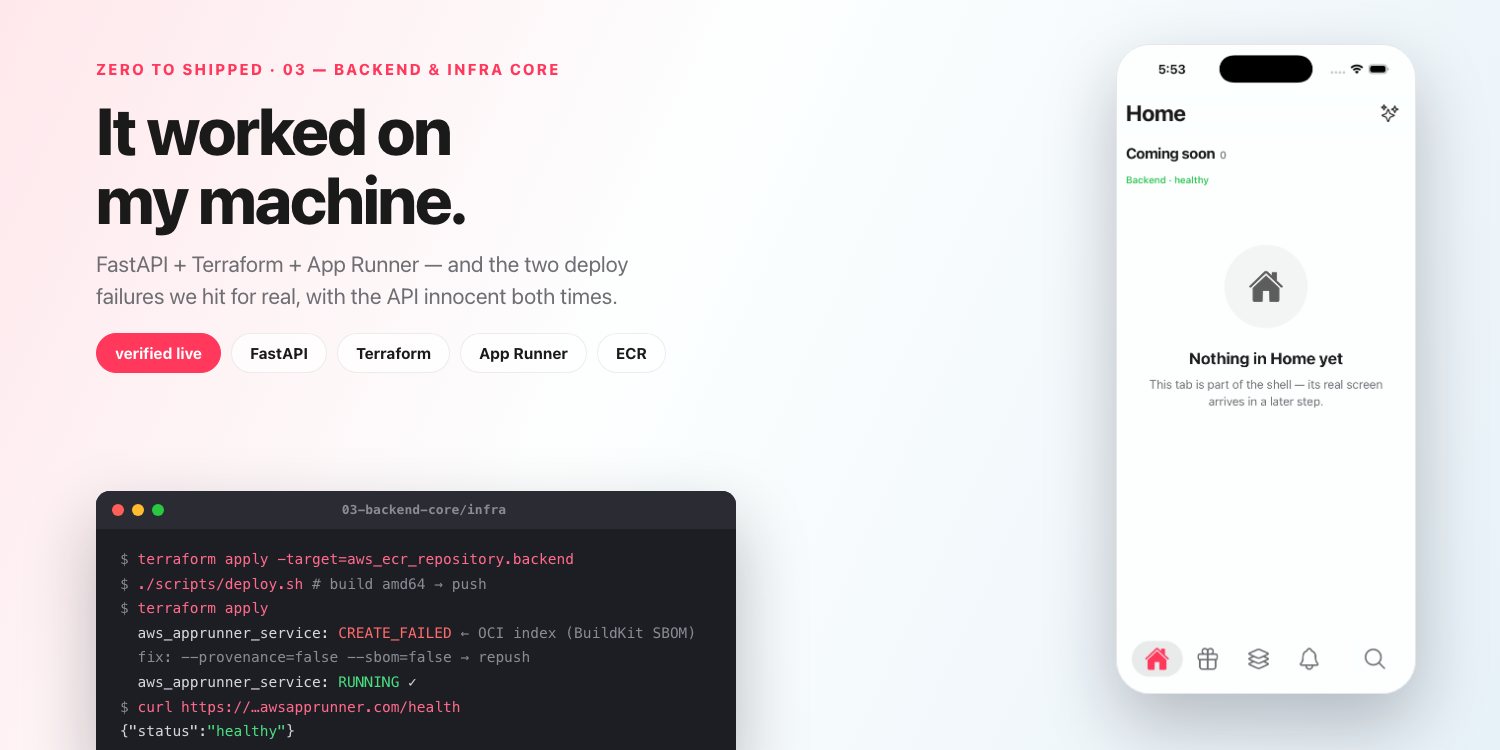
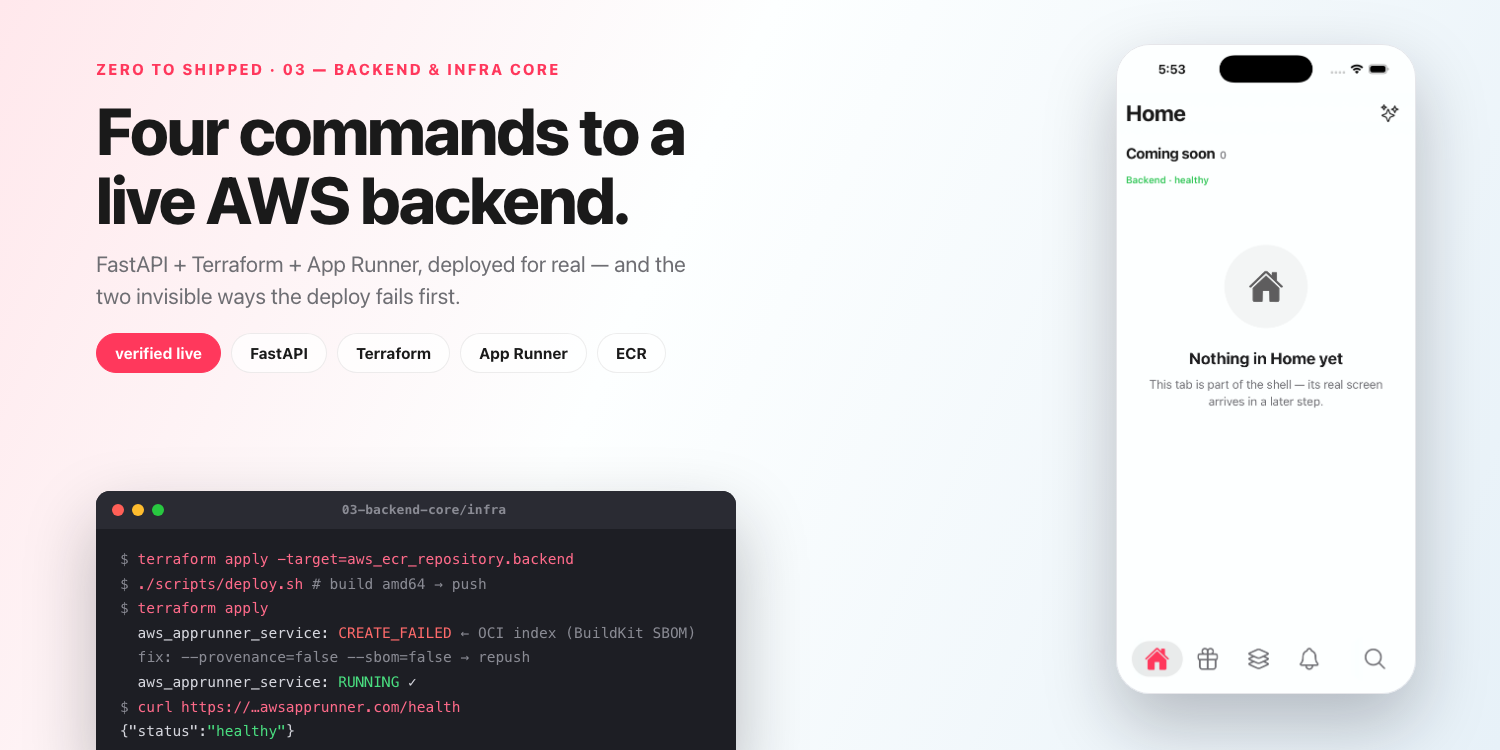
Post 03: value-first title (Four Commands to a Live AWS Backend); opens on the war story
Title pattern now matches the series' strongest (quantified deliverable,
like 'One Script to Set Up Everything'); the CREATE_FAILED narrative moves
from section four to the opening hook.

Changed region(s): [[0.0613, 0.1227, 0.46, 0.3067], [0.0613, 0.3373, 0.46, 0.4293]]

diff --git a/medium/03-backend-core.html b/medium/03-backend-core.html
@@ -3,12 +3,13 @@
 <style>body{max-width:740px;margin:40px auto;font-family:Georgia,serif;font-size:18px;line-height:1.6;color:#242424;padding:0 20px}
 img{max-width:100%}pre{background:#f5f5f5;padding:14px;overflow-x:auto;font-size:14px}code{background:#f5f5f5;padding:1px 4px;font-size:15px}</style>
 </head><body>
-<h1>It Worked on My Machine</h1>
-<p><em>Zero to Shipped · 03 — a FastAPI skeleton, real AWS infrastructure as code, and the two ways a Docker image passes every local test and still dies on deploy. (The API is never the problem.)</em></p>
+<h1>Four Commands to a Live AWS Backend</h1>
+<p><em>Zero to Shipped · 03 — FastAPI + Terraform + App Runner, deployed for real — and the two invisible ways the deploy fails first.</em></p>
 <hr>
-<p><img src="https://raw.githubusercontent.com/srivardhanjalan/kivan-tutorial/main/mocks/mocks-hero-03.png?v=a6b5abf" alt="Step 03 — the staged rollout and the app talking to AWS"></p>
-<p>This is step 03 of <strong>Zero to Shipped</strong>, a series where we build a real social product one deployable step at a time. New here? <strong><a href="https://medium.com/@srivardhanjalan/zero-to-shipped-2c13ce7e20e9">Start with the introduction</a></strong>. The code is the <code>03-backend-core/</code> folder, and <a href="https://github.com/srivardhanjalan/kivan-tutorial/pull/12/files">PR #12</a> shows every line this step adds.</p>
-<p>Today the app leaves the simulator: by the end, every tab of step 02&#39;s shell shows a live <strong>Backend · healthy</strong> line — first from a local FastAPI process, then from your own AWS infrastructure. And along the way we&#39;ll earn this post&#39;s title twice: deployments that fail on AWS with empty logs while the exact same code runs perfectly on the laptop — both times with the API itself completely innocent.</p>
+<p><img src="https://raw.githubusercontent.com/srivardhanjalan/kivan-tutorial/main/mocks/mocks-hero-03.png?v=d3dfd82" alt="Step 03 — the staged rollout and the app talking to AWS"></p>
+<p>While verifying this exact step, my deploy died like this: <code>terraform apply</code> waited three minutes on App Runner, returned <code>CREATE_FAILED</code>, and the service log group was <strong>empty</strong> — the container never produced a single line. The same image ran perfectly on my laptop. The API code was completely innocent. It took inspecting the pushed manifest to find the culprit, and it wasn&#39;t the one the internet warns you about.</p>
+<p>That story — both versions of it — is the second half of this post. The first half is the payoff it interrupts: a FastAPI backend running on your own AWS, deployed with four commands, every resource tagged and grouped, torn down to zero with one.</p>
+<p>*(This is step 03 of <strong>Zero to Shipped</strong>, where we build a real social product one deployable step at a time. New here? <strong><a href="https://medium.com/@srivardhanjalan/zero-to-shipped-2c13ce7e20e9">Start with the introduction</a></strong>. The code is the <code>03-backend-core/</code> folder; <a href="https://github.com/srivardhanjalan/kivan-tutorial/pull/12/files">PR #12</a> shows every line this step adds.)*</p>
 <h2>The backend earns its dependencies</h2>
 <p>The FastAPI skeleton follows the same rule the frontend&#39;s design tokens do: nothing joins before its first caller.</p>
 <pre><code>backend/
@@ -40,7 +41,7 @@ img{max-width:100%}pre{background:#f5f5f5;padding:14px;overflow-x:auto;font-size
 terraform apply                                       # 3. the service (~5 min)
 ./scripts/deploy.sh                                   # 4. instant re-run: tags the log groups
 </code></pre>
-<p>Here&#39;s what this post is really about. <strong><code>CREATE_FAILED</code>, with empty logs</strong> — the service dies before the first line of application output. There are two completely different causes with this identical symptom:</p>
+<p>And now the story from the top of the post. <strong><code>CREATE_FAILED</code>, with empty logs</strong> — the service dies before the first line of application output. Two completely different causes share this identical symptom:</p>
 <ol>
 <li><strong>The wrong build path on Apple Silicon.</strong> QEMU emulation and docker-container builders produce amd64 images that pass every local test and fail only on AWS. The fix is the Rosetta-backed Colima context that step 01&#39;s script configured (<code>docker context show</code> → <code>colima-rosetta</code>).</li>
 <li><strong>BuildKit&#39;s default attestations</strong> — and this one we hit <em>while verifying this exact step</em>. Newer Docker attaches provenance/SBOM manifests to a push, turning it into an OCI image <em>index</em>. Updating an existing service tolerates it; <strong>creating</strong> one doesn&#39;t. Maddening to bisect, because the image itself is fine. <code>deploy.sh</code> passes <code>--provenance=false --sbom=false</code>.</li>
@@ -65,7 +66,7 @@ terraform apply                                       # 3. the service (~5 min)
 <li><strong>00 · <a href="https://medium.com/@srivardhanjalan/zero-to-shipped-2c13ce7e20e9">Introduction</a></strong></li>
 <li><strong>01 · <a href="https://medium.com/@srivardhanjalan/one-script-to-set-up-everything-ae8bcea2d649">One script to set up everything</a></strong></li>
 <li><strong>02 · The app with no features</strong> <em>(link when published)</em></li>
-<li><strong>03 · It worked on my machine</strong> <em>(this post)</em></li>
+<li><strong>03 · Four commands to a live AWS backend</strong> <em>(this post)</em></li>
 <li><strong>04 · Auth &amp; onboarding</strong> <em>(coming soon)</em></li>
 </ul>
 <p><em>All code: <a href="https://github.com/srivardhanjalan/kivan-tutorial">github.com/srivardhanjalan/kivan-tutorial</a></em></p>

diff --git a/mocks/hero-03.html b/mocks/hero-03.html
@@ -28,8 +28,8 @@
 <div class="hero">
   <div class="copy">
     <div class="eyebrow">Zero to Shipped · 03 — Backend &amp; Infra Core</div>
-    <div class="title">It worked on my&nbsp;machine.</div>
-    <div class="sub">FastAPI + Terraform + App Runner — and the two deploy failures we hit for real, with the API innocent both times.</div>
+    <div class="title">Four commands to a live AWS&nbsp;backend.</div>
+    <div class="sub">FastAPI + Terraform + App Runner, deployed for real — and the two invisible ways the deploy fails first.</div>
     <div class="chips">
       <span class="chip hot">verified live</span><span class="chip">FastAPI</span>
       <span class="chip">Terraform</span><span class="chip">App Runner</span><span class="chip">ECR</span>

diff --git a/medium/03-backend-core.md b/medium/03-backend-core.md
@@ -1,14 +1,16 @@
-# It Worked on My Machine
+# Four Commands to a Live AWS Backend
 
-*Zero to Shipped · 03 — a FastAPI skeleton, real AWS infrastructure as code, and the two ways a Docker image passes every local test and still dies on deploy. (The API is never the problem.)*
+*Zero to Shipped · 03 — FastAPI + Terraform + App Runner, deployed for real — and the two invisible ways the deploy fails first.*
 
 ---
 
 ![Step 03 — the staged rollout and the app talking to AWS](../mocks/mocks-hero-03.png)
 
-This is step 03 of **Zero to Shipped**, a series where we build a real social product one deployable step at a time. New here? **[Start with the introduction](https://medium.com/@srivardhanjalan/zero-to-shipped-2c13ce7e20e9)**. The code is the `03-backend-core/` folder, and [PR #12](https://github.com/srivardhanjalan/kivan-tutorial/pull/12/files) shows every line this step adds.
+While verifying this exact step, my deploy died like this: `terraform apply` waited three minutes on App Runner, returned `CREATE_FAILED`, and the service log group was **empty** — the container never produced a single line. The same image ran perfectly on my laptop. The API code was completely innocent. It took inspecting the pushed manifest to find the culprit, and it wasn't the one the internet warns you about.
 
-Today the app leaves the simulator: by the end, every tab of step 02's shell shows a live **Backend · healthy** line — first from a local FastAPI process, then from your own AWS infrastructure. And along the way we'll earn this post's title twice: deployments that fail on AWS with empty logs while the exact same code runs perfectly on the laptop — both times with the API itself completely innocent.
+That story — both versions of it — is the second half of this post. The first half is the payoff it interrupts: a FastAPI backend running on your own AWS, deployed with four commands, every resource tagged and grouped, torn down to zero with one.
+
+*(This is step 03 of **Zero to Shipped**, where we build a real social product one deployable step at a time. New here? **[Start with the introduction](https://medium.com/@srivardhanjalan/zero-to-shipped-2c13ce7e20e9)**. The code is the `03-backend-core/` folder; [PR #12](https://github.com/srivardhanjalan/kivan-tutorial/pull/12/files) shows every line this step adds.)*
 
 ## The backend earns its dependencies
 
@@ -53,7 +55,7 @@ terraform apply                                       # 3. the service (~5 min)
 ./scripts/deploy.sh                                   # 4. instant re-run: tags the log groups
 ```
 
-Here's what this post is really about. **`CREATE_FAILED`, with empty logs** — the service dies before the first line of application output. There are two completely different causes with this identical symptom:
+And now the story from the top of the post. **`CREATE_FAILED`, with empty logs** — the service dies before the first line of application output. Two completely different causes share this identical symptom:
 
 1. **The wrong build path on Apple Silicon.** QEMU emulation and docker-container builders produce amd64 images that pass every local test and fail only on AWS. The fix is the Rosetta-backed Colima context that step 01's script configured (`docker context show` → `colima-rosetta`).
 2. **BuildKit's default attestations** — and this one we hit *while verifying this exact step*. Newer Docker attaches provenance/SBOM manifests to a push, turning it into an OCI image *index*. Updating an existing service tolerates it; **creating** one doesn't. Maddening to bisect, because the image itself is fine. `deploy.sh` passes `--provenance=false --sbom=false`.
@@ -86,7 +88,7 @@ In **step 04** the app gets real users: Clerk sign-in/up, JWKS verification on t
 - **00 · [Introduction](https://medium.com/@srivardhanjalan/zero-to-shipped-2c13ce7e20e9)**
 - **01 · [One script to set up everything](https://medium.com/@srivardhanjalan/one-script-to-set-up-everything-ae8bcea2d649)**
 - **02 · The app with no features** *(link when published)*
-- **03 · It worked on my machine** *(this post)*
+- **03 · Four commands to a live AWS backend** *(this post)*
 - **04 · Auth & onboarding** *(coming soon)*
 
 *All code: [github.com/srivardhanjalan/kivan-tutorial](https://github.com/srivardhanjalan/kivan-tutorial)*